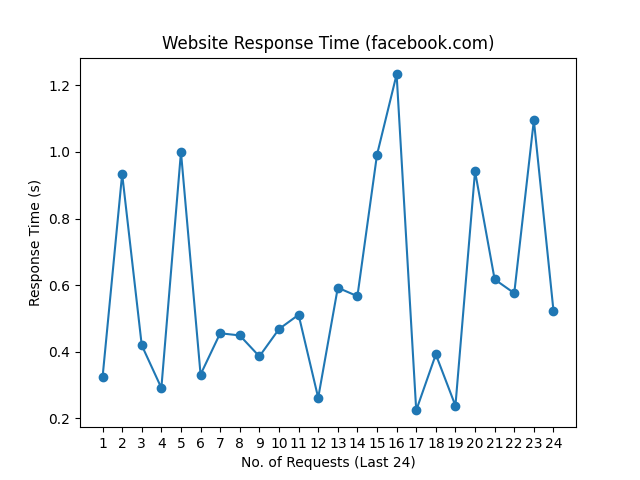
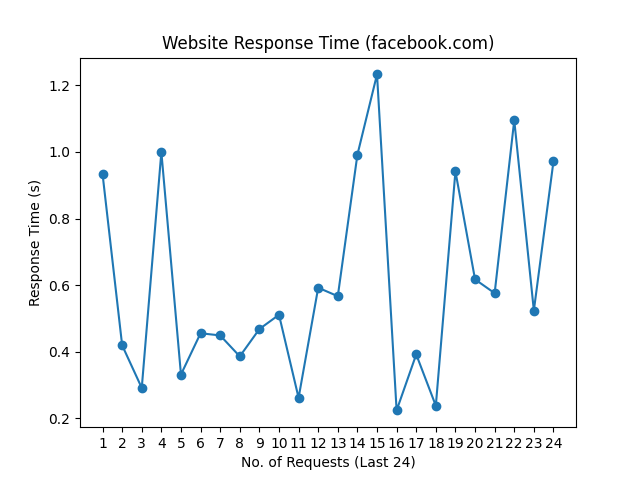
update README.md, history and graph

Changed region(s): [[0.1562, 0.125, 0.875, 0.875]]

diff --git a/README.md b/README.md
@@ -1,10 +1,10 @@
 # Web Monitoring
 
-Last Checked: 16/05/2024 09:04
+Last Checked: 17/05/2024 08:16
 
 | Website | Response Time (s) | Status | Avg Uptime (%) |
 |---------|-------------------|--------|----------------|
 | www.thiswebsiteisdown.net | 0 <br> <img src="graph/thiswebsiteisdown.net.png" alt="Graph" width="200" height="200">  | ❌ Down | 0.00 |
-| www.netflix.com | 0.430499 <br> <img src="graph/netflix.com.png" alt="Graph" width="200" height="200">  | ✅ Up | 100.00 |
-| www.google.com | 0.166205 <br> <img src="graph/google.com.png" alt="Graph" width="200" height="200">  | ✅ Up | 100.00 |
-| www.facebook.com | 0.523843 <br> <img src="graph/facebook.com.png" alt="Graph" width="200" height="200">  | ✅ Up | 100.00 |
+| www.netflix.com | 0.900538 <br> <img src="graph/netflix.com.png" alt="Graph" width="200" height="200">  | ✅ Up | 100.00 |
+| www.google.com | 0.156083 <br> <img src="graph/google.com.png" alt="Graph" width="200" height="200">  | ✅ Up | 100.00 |
+| www.facebook.com | 0.971402 <br> <img src="graph/facebook.com.png" alt="Graph" width="200" height="200">  | ✅ Up | 100.00 |
